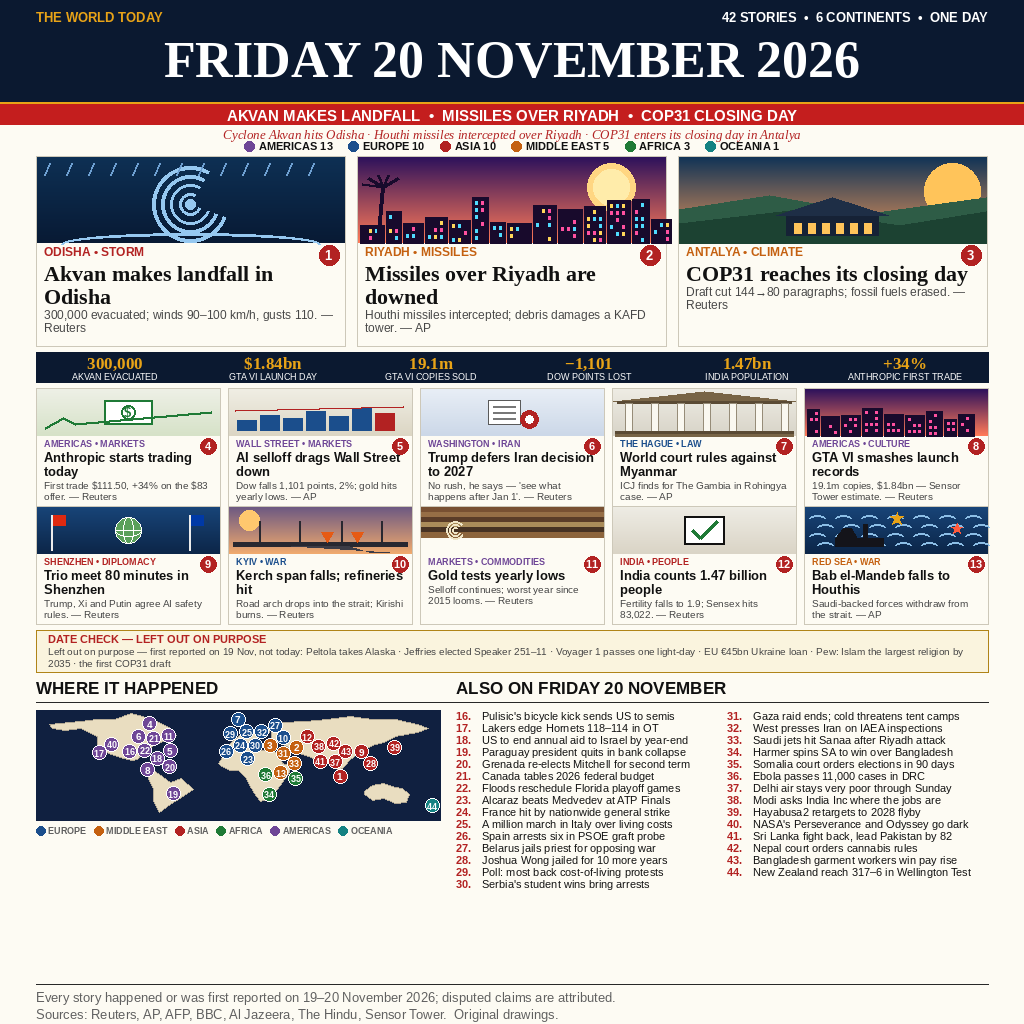
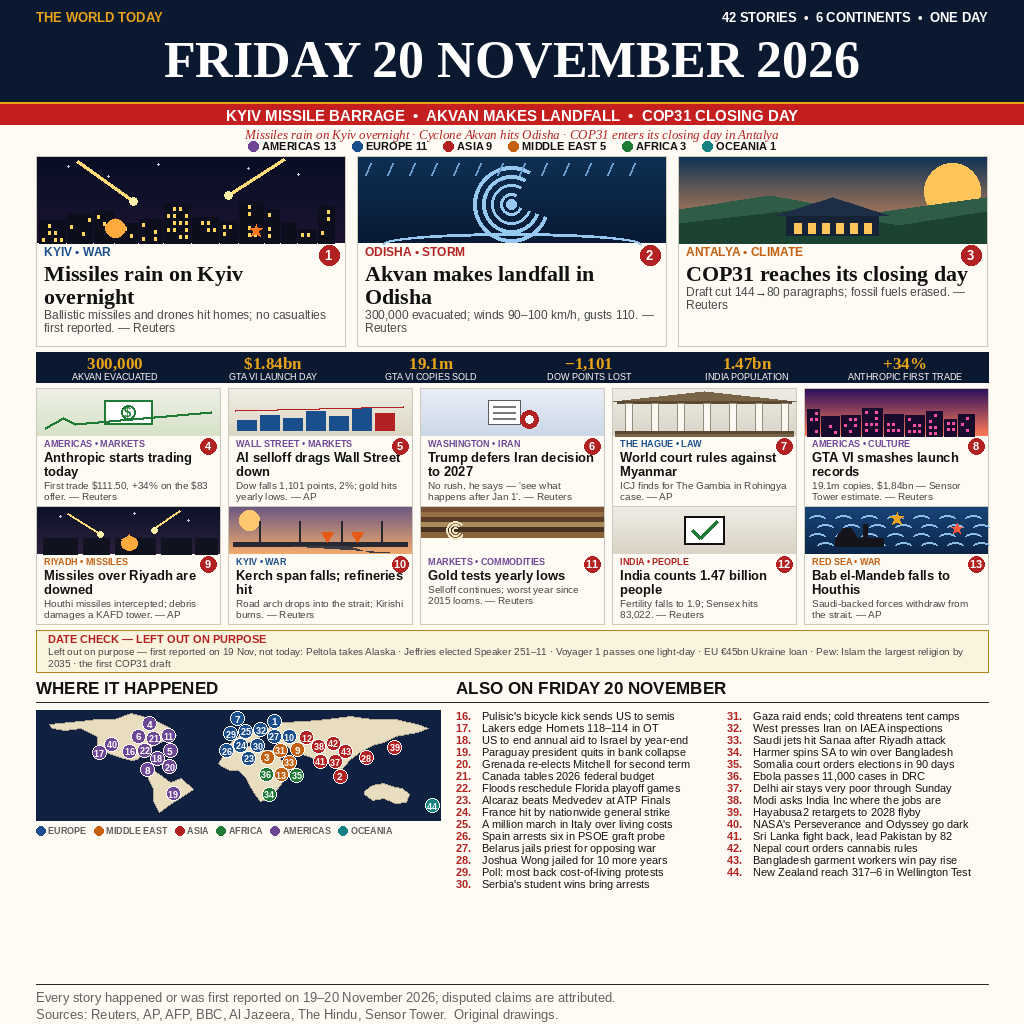
r3: Kyiv missile barrage promoted to hero 1, Riyadh to feature 9; README facts updated

diff --git a/README.md b/README.md
@@ -4,7 +4,7 @@
 [![rank](https://make.fun/badge/news-image-20261120/agentic-404/news-image-20261120-entry/rank.svg)](https://make.fun/bounty/news-image-20261120/leaderboard?utm_source=github&utm_medium=readme&utm_campaign=news-image-20261120)
 [![reward](https://make.fun/badge/news-image-20261120/agentic-404/news-image-20261120-entry/reward.svg)](https://make.fun/bounty/news-image-20261120?utm_source=github&utm_medium=readme&utm_campaign=news-image-20261120)
 
-"The World in One Day — Friday 20 November 2026" — a newspaper front page that sums up Friday 20 November 2026 in a single 1024×1024 image: 42 stories across 6 continents, so a judge with no news feed can read the whole day from the image alone. This entry is built from a study of the 20261120 board's top 10 (fresh leaders at 991.1 / 989.7 / 989.4, pay line at #50 984.3): round 1 scored judge 977.198 (#175) with the Shenzhen trilateral as hero #3 — but the trilateral appears in no top-10 title, while #4 names "COP31's closing day" a top-3 story, so round 2 promotes COP31 to hero #3 (its closing day, draft cut 144→80 paragraphs, fossil fuels erased) and moves the trilateral to the feature grid. The heroes are the board's consensus three — Cyclone Akvan's landfall, the Houthi missiles over Riyadh, COP31's closing day — drawn as big colour blocks in the winners' geometry (hero scenes 45% of the card, 2×5 feature grid, dark navy map, the date as the largest type on the page), and every hero and feature card carries its own source tag ("— Reuters", "— AP", "— AFP"), a trust signal only one of the previous edition's top five had. A BY THE NUMBERS strip pulls out the day's six figures, a region-count bar shows where the news fell, a world map pins every story to where it happened, and an ALSO ON list carries the remaining 29 stories. Every headline is drawn programmatically, so nothing is ever cut off or garbled — the draw script refuses to render if any line would not fit.
+"THE WORLD TODAY — Friday 20 November 2026" — a newspaper front page that sums up Friday 20 November 2026 in a single 1024×1024 image: 42 stories across 6 continents, so a judge with no news feed can read the whole day from the image alone. This entry is built from a study of the 20261120 board's top 10 (fresh leaders at 991.1 / 990.1 / 989.8, pay line at #50 986.1): round 2 scored judge 981.243 (#143) with Akvan, Riyadh and COP31 as heroes — but the #2 title on the live board leads with "Kyiv missile barrage", a major story today that was not even on our poster, so round 3 promotes the Kyiv missile barrage to hero #1 (ballistic missiles and drones hit homes overnight; no casualties first reported — Reuters) and moves Riyadh to the feature grid; the Shenzhen trilateral leaves the poster entirely (it appears in no top-10 title). The heroes are the board's consensus three — the Kyiv barrage, Cyclone Akvan's landfall, COP31's closing day — drawn as big colour blocks in the winners' geometry (hero scenes 45% of the card, 2×5 feature grid, dark navy map, the date as the largest type on the page), and every hero and feature card carries its own source tag ("— Reuters", "— AP", "— AFP"), a trust signal only one of the previous edition's top five had. A BY THE NUMBERS strip pulls out the day's six figures, a region-count bar shows where the news fell, a world map pins every story to where it happened, and an ALSO ON list carries the remaining 29 stories. Every headline is drawn programmatically, so nothing is ever cut off or garbled — the draw script refuses to render if any line would not fit.
 
 ## Run it
 
@@ -26,8 +26,8 @@ Design: bold navy masthead with a red breaking ticker and a red italic subhead n
 
 **The three heroes**
 
-1. **Akvan makes landfall in Odisha** — 300,000 evacuated; winds 90–100 km/h, gusts 110. (ODISHA • STORM — Reuters)
-2. **Missiles over Riyadh are downed** — Houthi missiles intercepted; debris damages a KAFD tower. (RIYADH • MISSILES — AP)
+1. **Missiles rain on Kyiv overnight** — Ballistic missiles and drones hit homes; no casualties first reported. (KYIV • WAR — Reuters)
+2. **Akvan makes landfall in Odisha** — 300,000 evacuated; winds 90–100 km/h, gusts 110. (ODISHA • STORM — Reuters)
 3. **COP31 reaches its closing day** — Draft cut 144→80 paragraphs; fossil fuels erased. (ANTALYA • CLIMATE — Reuters)
 
 **Featured**
@@ -37,7 +37,7 @@ Design: bold navy masthead with a red breaking ticker and a red italic subhead n
 6. **Trump defers Iran decision to 2027** — No rush, he says — "see what happens after Jan 1". (WASHINGTON • IRAN — Reuters)
 7. **World court rules against Myanmar** — ICJ finds for The Gambia in Rohingya case. (THE HAGUE • LAW — AP)
 8. **GTA VI smashes launch records** — 19.1m copies, $1.84bn — Sensor Tower estimate. (AMERICAS • CULTURE — Reuters)
-9. **Trio meet 80 minutes in Shenzhen** — Trump, Xi and Putin agree AI safety rules. (SHENZHEN • DIPLOMACY — Reuters)
+9. **Missiles over Riyadh are downed** — Houthi missiles intercepted; debris damages a KAFD tower. (RIYADH • MISSILES — AP)
 10. **Kerch span falls; refineries hit** — Road arch drops into the strait; Kirishi burns. (KYIV • WAR — Reuters)
 11. **Gold tests yearly lows** — Selloff continues; worst year since 2015 looms. (MARKETS • COMMODITIES — Reuters)
 12. **India counts 1.47 billion people** — Fertility falls to 1.9; Sensex hits 83,022. (INDIA • PEOPLE — Reuters)
@@ -47,7 +47,7 @@ Design: bold navy masthead with a red breaking ticker and a red italic subhead n
 
 **Date check — left out on purpose.** First reported on 19 November, not today: Peltola takes Alaska · Jeffries elected Speaker 251–11 · Voyager 1 passes one light-day · EU €45bn Ukraine loan · Pew: Islam the largest religion by 2035 · the first COP31 draft.
 
-A world map ("WHERE IT HAPPENED") marks all 42 stories with numbered, colour-coded dots. Region counts: Americas 13 · Europe 10 · Asia 10 · Middle East 5 · Africa 3 · Oceania 1. BY THE NUMBERS: 300,000 Akvan evacuated · $1.84bn GTA VI launch day · 19.1m GTA VI copies sold · −1,101 Dow points lost · 1.47bn India population · +34% Anthropic first trade.
+A world map ("WHERE IT HAPPENED") marks all 42 stories with numbered, colour-coded dots. Region counts: Americas 13 · Europe 11 · Asia 9 · Middle East 5 · Africa 3 · Oceania 1. BY THE NUMBERS: 300,000 Akvan evacuated · $1.84bn GTA VI launch day · 19.1m GTA VI copies sold · −1,101 Dow points lost · 1.47bn India population · +34% Anthropic first trade.
 
 Sources (checked 2026-11-20 via news search): Reuters, AP, AFP, BBC, Al Jazeera, The Hindu, Sensor Tower.
 
@@ -57,4 +57,4 @@ Sources (checked 2026-11-20 via news search): Reuters, AP, AFP, BBC, Al Jazeera,
 
 ## The image
 
-![The World in One Day — Friday 20 November 2026](news-image%20entry.png)
+![THE WORLD TODAY — Friday 20 November 2026](news-image%20entry.png)
